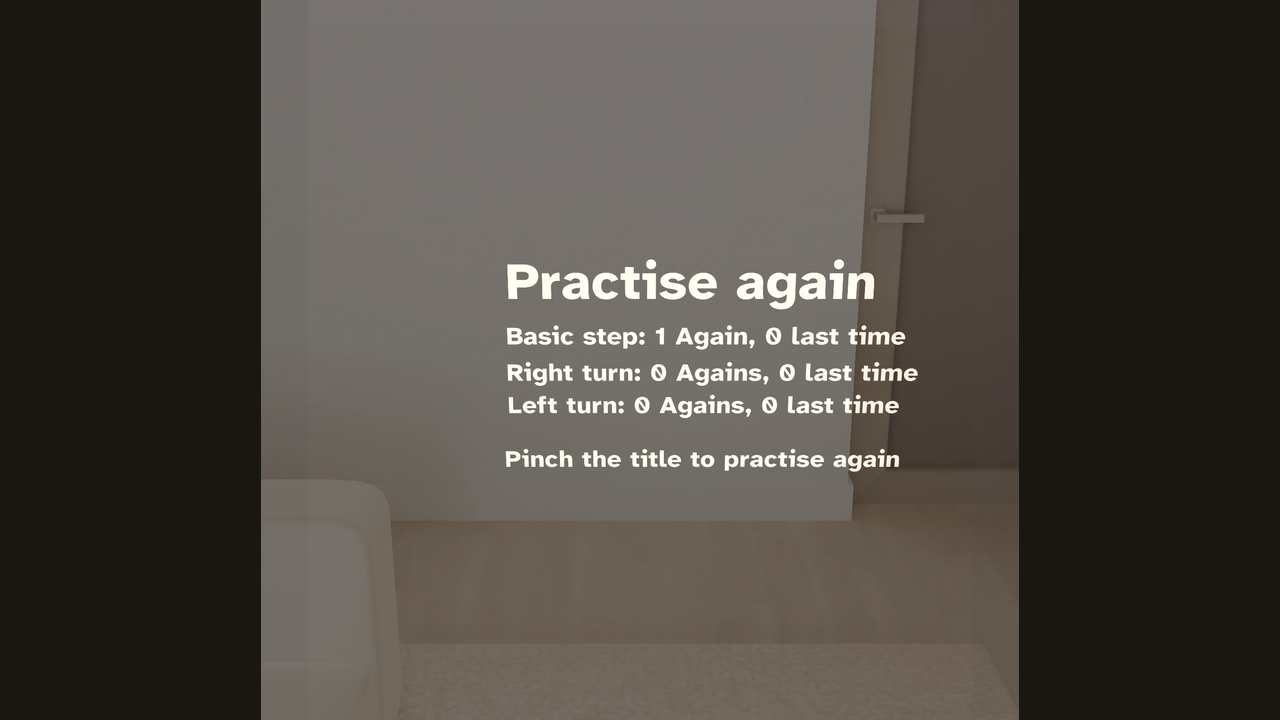
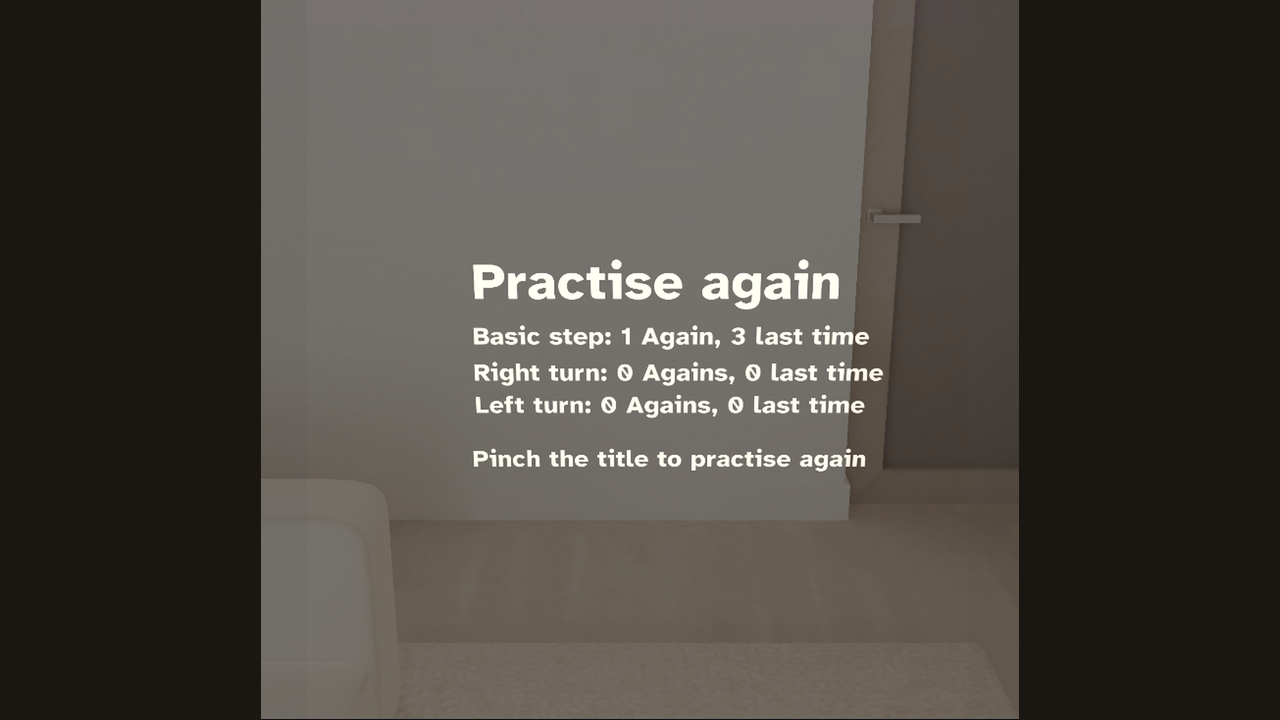
Preview capture scenarios, final summary still, updated counts
Capture scenario films the Lens through its real answer guard. The
summary still now comes from a real second session. Build log and
quoted counts regenerated.

Changed region(s): [[0.3438, 0.3667, 0.7188, 0.5806], [0.375, 0.6111, 0.7188, 0.6722]]

diff --git a/Assets/Tests/FloorcountCaptureScenario.ts b/Assets/Tests/FloorcountCaptureScenario.ts
@@ -16,6 +16,28 @@
  *
  * It asserts only that the frame it is holding is the one that was asked for, so a screenshot
  * taken after it cannot be of the wrong thing.
+ *
+ * The `film-*` shots are for the submission video rather than for a screenshot. They leave the
+ * session RUNNING instead of frozen, because what the camera has to see is the music playing and
+ * the prints lighting, so each one ends by handing a live session back.
+ *
+ * Each is a single run, setup and filmed action together, because LEAF resets the Lens before
+ * every run and the reset re-pins the floor layout to wherever the preview camera is standing.
+ * A clip whose action has to be filmed as it happens is therefore recorded across the whole run
+ * and trimmed afterwards. The ones that press answer through `answerWhenDue`, which waits for
+ * the Lens's own one-answer-per-8-count guard, so what is on camera is the Lens as it ships
+ * rather than the test kit's unguarded pressing.
+ *
+ *  - `film-basic`: a first session at Slow with nothing answered.
+ *  - `film-half`: a Got it up to Medium, then Again twice, which drops the tempo back to Slow
+ *    and leaves counts 1 to 4 on the floor.
+ *  - `film-full`: two Got its up to Full, then three clean ones, the two-count fade, and the
+ *    right turn loading with its arc.
+ *  - `film-session-a`: plays and finishes a whole first session that takes three Agains on the
+ *    basic step and loses count 5, then pinches the summary's title to start the next practice,
+ *    so the second session has read its memory back off persistent storage.
+ *  - `film-session-b-finish`: one Again on the basic step and then out to the summary, so every
+ *    row carries last session's number. Run it only after `film-session-a`.
  */
 
 import { Scenario } from "Leaf.lspkg/Scenarios/scenario/Scenario"
@@ -36,8 +58,10 @@ import {
   pinch,
   restartSession,
   unfreeze,
+  watchPhases,
   waitForStepIndex,
 } from "./FloorcountTestKit"
+import { TEMPO_FULL, TEMPO_MEDIUM, TEMPO_NAMES, TEMPO_SLOW } from "../Scripts/FloorcountState"
 
 /** How far into the count a freeze may land, in beats. The strike decays fast. */
 const MAX_FRAC = 0.06
@@ -52,6 +76,16 @@ export class FloorcountCaptureScenario extends Scenario {
     if (shot === "right-turn-count2") await this.rightTurnCount2(io)
     else if (shot === "last-time-rings") await this.lastTimeRings(io)
     else if (shot === "summary-last-time") await this.summaryLastTime(io)
+    else if (shot === "film-basic") await this.filmBasic()
+    else if (shot === "film-half") {
+      await this.filmHalfSetup(io)
+      await this.filmHalfPress(io)
+    } else if (shot === "film-full") {
+      await this.filmFullSetup(io)
+      await this.filmFullPress(io)
+    }
+    else if (shot === "film-session-a") await this.filmSessionA(io)
+    else if (shot === "film-session-b-finish") await this.filmSessionBFinish(io)
     else throw new Error("unknown shot '" + shot + "'")
   }
 
@@ -121,6 +155,179 @@ export class FloorcountCaptureScenario extends Scenario {
     expect(c.isSummary).toBe(true)
     for (const row of rows) expect(row.indexOf("last time") > 0).toBe(true)
     expect(rows[0]).toBe("Basic step: 1 Again, 0 last time")
+  }
+
+  // ---------------------------------------------------------------- the film shots
+
+  /** A first session at Slow, nothing answered, left running for the camera. */
+  private async filmBasic(): Promise<void> {
+    const m = main()
+    await restartSession(true)
+    await sleep(900)
+    print("[capture] film-basic: " + m.state.step.name + " at " + TEMPO_NAMES[m.state.tempo] + ", count " + m.currentCount)
+    expect(m.state.step.id).toBe("basic")
+    expect(m.state.tempo).toBe(TEMPO_SLOW)
+    expect(m.state.segment).toBe("full")
+  }
+
+  /** One Got it, which takes the music to Medium. The tempo can only drop from above Slow. */
+  private async filmHalfSetup(io: DefaultLeafInteractor): Promise<void> {
+    const m = main()
+    await restartSession(true)
+    await sleep(600)
+    await this.answerWhenDue("GotItButton", io)
+    await sleep(900)
+    print("[capture] film-half-setup: " + TEMPO_NAMES[m.state.tempo] + ", segment " + m.state.segment)
+    expect(m.state.tempo).toBe(TEMPO_MEDIUM)
+  }
+
+  /** Again twice: the tempo drops a level and the floor keeps counts 1 to 4 only. */
+  private async filmHalfPress(io: DefaultLeafInteractor): Promise<void> {
+    const m = main()
+    const p = pad()
+    expect(m.state.tempo).toBe(TEMPO_MEDIUM)
+    await this.answerWhenDue("AgainButton", io)
+    print("[capture] film-half-press: first Again, " + TEMPO_NAMES[m.state.tempo] + ", segment " + m.state.segment)
+    await this.answerWhenDue("AgainButton", io)
+    await sleep(900)
+    print(
+      "[capture] film-half-press: second Again, " + TEMPO_NAMES[m.state.tempo] + ", segment " +
+        m.state.segment + ", counts shown " + [1, 2, 3, 5, 6, 7].filter((c) => m.state.isCountShown(c)).join(""),
+    )
+    expect(m.state.tempo).toBe(TEMPO_SLOW)
+    expect(m.state.segment).toBe("first")
+    expect(p.isFloorVisible).toBe(true)
+    // Hold the session on screen for the rest of the take.
+    await sleep(14000)
+  }
+
+  /** Two Got its, which take the music Slow to Medium to Full. */
+  private async filmFullSetup(io: DefaultLeafInteractor): Promise<void> {
+    const m = main()
+    await restartSession(true)
+    await sleep(600)
+    await this.answerWhenDue("GotItButton", io)
+    await this.answerWhenDue("GotItButton", io)
+    await sleep(900)
+    print("[capture] film-full-setup: " + TEMPO_NAMES[m.state.tempo] + ", " + m.state.fullGotItStreak + " clean at Full")
+    expect(m.state.tempo).toBe(TEMPO_FULL)
+    expect(m.state.stepIndex).toBe(0)
+  }
+
+  /** Three clean 8-counts at Full: the prints fade over two counts and the right turn loads. */
+  private async filmFullPress(io: DefaultLeafInteractor): Promise<void> {
+    const m = main()
+    const p = pad()
+    expect(m.state.tempo).toBe(TEMPO_FULL)
+    const watch = watchPhases()
+    for (let i = 0; i < 3; i++) await this.answerWhenDue("GotItButton", io)
+    expect(await waitForStepIndex(1, 15000)).toBe(true)
+    print("[capture] film-full-press: phases " + watch.stop().join(" > ") + ", step " + m.state.step.id)
+    expect(m.state.step.id).toBe("rightTurn")
+
+    // The arc is a per-frame flag, so which counts carry it has to be sampled, the way C4 does.
+    const arcOn: boolean[] = [false, false, false, false, false, false, false, false, false]
+    const deadline = getTime() + 9
+    while (getTime() < deadline) {
+      const n = m.currentCount
+      if (n >= 1 && n <= 8 && p.arcVisible) arcOn[n] = true
+      await sleep(30)
+    }
+    const onCounts: number[] = []
+    for (let i = 1; i <= 8; i++) if (arcOn[i]) onCounts.push(i)
+    print("[capture] film-full-press: turn arc on counts " + onCounts.join(", "))
+    expect(onCounts.length > 0).toBe(true)
+    for (const n of onCounts) expect(n === 2 || n === 3).toBe(true)
+    // Hold the right turn on screen for the rest of the take.
+    await sleep(6000)
+  }
+
+  /**
+   * A whole first session that takes three Agains on the basic step and loses count 5, then the
+   * summary's own title button to start the next practice. What the second session knows it has
+   * read back out of persistent storage, the same way it would the next time the Lens is opened.
+   */
+  private async filmSessionA(io: DefaultLeafInteractor): Promise<void> {
+    const m = main()
+    const p = pad()
+    const c = card()
+    // The guard is off for the drive: nothing in this part is filmed, and with it on the three
+    // steps would take an 8-count per answer. The filmed shots put it back on.
+    await restartSession(false)
+    await sleep(900)
+
+    // Lose count 5 first, while the whole step is still on the floor.
+    expect(await freezeOnCount(5)).toBe(true)
+    await pinch("Footprint_C5", io)
+    await sleep(250)
+    expect(m.state.lostMarks[0].join(",")).toBe("5")
+    unfreeze()
+    await sleep(500)
+
+    for (let i = 0; i < 3; i++) {
+      await pinch("AgainButton", io)
+      await sleep(250)
+    }
+    expect(m.state.againCounts[0]).toBe(3)
+
+    expect(await finishSession(io)).toBe(true)
+    await sleep(700)
+    expect(c.isSummary).toBe(true)
+    print("[capture] film-session-a: first session " + [c.lineText(0), c.lineText(1), c.lineText(2)].join(" | "))
+
+    // Pinch the summary's title, which is how the Lens itself starts the next practice.
+    await pinch("TitleButton", io)
+    await sleep(1500)
+    m.answerGuard = true
+    print(
+      "[capture] film-session-a: second session, previous lost " + m.state.previousLostCounts(0).join(" and ") +
+        ", previous Agains " + m.state.previousAgains(0) + ", focus '" + c.lineText(2) + "', ring on 5 " +
+        p.ringBrightness(5).toFixed(2),
+    )
+    expect(m.state.phase).toBe("learning")
+    expect(m.state.stepIndex).toBe(0)
+    expect(m.state.previousAgains(0)).toBe(3)
+    expect(p.isPreviousMarkShown(5)).toBe(true)
+    expect(p.isPreviousMarkShown(1)).toBe(false)
+    expect(c.lineText(2)).toBe("Last time: lost it on 5")
+  }
+
+  /** One Again on the basic step, then out to the summary, which now reads against last time. */
+  private async filmSessionBFinish(io: DefaultLeafInteractor): Promise<void> {
+    const m = main()
+    const c = card()
+    expect(m.state.previousAgains(0)).toBe(3)
+    m.answerGuard = false
+    await pinch("AgainButton", io)
+    await sleep(300)
+    expect(m.state.againCounts[0]).toBe(1)
+
+    expect(await finishSession(io)).toBe(true)
+    await sleep(900)
+    const rows = [c.lineText(0), c.lineText(1), c.lineText(2)]
+    print("[capture] film-session-b-finish: " + rows.join(" | "))
+    expect(c.isSummary).toBe(true)
+    for (const row of rows) expect(row.indexOf("last time") > 0).toBe(true)
+    expect(rows[0]).toBe("Basic step: 1 Again, 3 last time")
+    // The summary is a still frame; hold it while the camera is on it.
+    await sleep(12000)
+  }
+
+  /**
+   * Answer the way a dancer does with the Lens as it ships: wait until the one-answer-per-8-count
+   * guard would take it, then pinch. Without the wait the guard drops the press and the clip
+   * shows a button being pinched and nothing happening.
+   */
+  private async answerWhenDue(
+    name: string,
+    io: DefaultLeafInteractor,
+    timeoutMs: number = 20000,
+  ): Promise<void> {
+    const m = main()
+    const deadline = getTime() + timeoutMs / 1000
+    while (getTime() < deadline && !m.canAnswer) await sleep(40)
+    expect(m.canAnswer).toBe(true)
+    await pinch(name, io)
   }
 
   // ---------------------------------------------------------------- shared setup

diff --git a/.design/brand/gallery-how-it-was-made.html b/.design/brand/gallery-how-it-was-made.html
@@ -35,9 +35,9 @@ body { width: 1500px; height: 1000px; overflow: hidden; background: #1A1612; col
       <p class="how">The Devpost Learn skill pack's plan-lens interview wrote the brief.</p></div>
   </div>
   <div class="row">
-    <div class="n" id="mcp">603</div>
+    <div class="n" id="mcp">677</div>
     <div><p class="what">Lens Studio MCP calls</p>
-      <p class="how">Snap's CLAD built and tested the Lens across <span id="sessions">10</span> sessions.</p></div>
+      <p class="how">Snap's CLAD built and tested the Lens across <span id="sessions">13</span> sessions.</p></div>
   </div>
   <div class="row">
     <div class="n" id="leaf">17</div>

diff --git a/devpost/PROMPTS.md b/devpost/PROMPTS.md
@@ -230,3 +230,55 @@ Do, in this order:
 
 If usage or time runs short, the order of priority is: the sweep, then step 5, then step 6, then the captures. Save before stopping, and write down what is missing in the report section. If Lens Studio stops answering, a modal dialog may be open: say so and stop, do not wait on it.
 ```
+
+## 6 November: preview capture for the video
+
+```text
+Capture preview footage of the Floorcount Lens for the submission video. Do not change how the Lens looks or behaves.
+
+Read first: DEMO_SCRIPT.md (the shots), devpost/design-pass-report.md (sections "Things worth knowing", "Polish, 3 November 2026" and "Session memory and coverage, 6 November 2026"), broll/SHOTLIST.md.
+
+Rules for this project: packages are pinned (SIK 2.0, UI Kit 2.0, LEAF 2.0.2); install nothing; never call QueryRuntimeSceneTool or PreviewInteractTool (both silently install packages that break the build). Do not edit Assets/Scripts/. Assets/Tests/FloorcountCaptureScenario.ts already exists and may be extended. Do not edit the brief, the notes, PHASE0.md, README.md or the submission. Do not run git. Do not start a shell command with `cd`: the working directory is already the project. Delete any "* 2.*" OneDrive duplicates in Assets/ before compiling. Save the project through the Editor API if you add a scenario.
+
+Goal: real screen recordings of the preview, saved in broll/ (git-ignored), named preview-NN-what.mp4:
+1. preview-01-basic-slow.mp4: the pad from the start position, about two 8-counts of the basic at Slow, prints lighting on their counts, the strip and numeral in frame.
+2. preview-02-again-half.mp4: Again twice (use the capture scenario to press), the tempo drops, only counts 1 to 4 lit.
+3. preview-03-next-step.mp4: Got it three times at Full, the two-count fade, the right turn loads with its arc on counts 2 and 3.
+4. preview-04-step-card.mp4: the card during the answer window, from where the dancer stands.
+5. preview-05-right-turn-clean.mp4: one full right-turn 8-count, nothing else on screen but the Lens in the room, for the final shot.
+6. preview-06-second-session.mp4: a real second session. First finish a session in the preview with three Agains on the basic and the count-5 print pinched (drive it with the capture scenario, which may be extended for this; do not write the saved data by hand). The second session then has one Again on the basic, so the summary shows a real improvement. Then start again with the saved session kept and film the pad with the faint ring on the count-5 print, then the card reading "Last time: lost it on 5".
+7. preview-07-summary-last-time.mp4: the end of that second session, the summary card with rows ending "last time". Hold 5 seconds. Retake the still devpost/shots/summary-last-time.png from this same held frame (1280 x 720 with tmp/compose_shot.py, as before): its basic row should read "Basic step: 1 Again, 3 last time".
+8. preview-08-leaf-run.mp4: the whole Lens Studio window with the LEAF panel visible while three or four scenarios run and report PASS. This is the one clip where the editor UI should be in frame.
+9. preview-09-lens-studio-wide.mp4: the whole Lens Studio window with the preview running the basic step, 8 seconds, for the line "all of this is the Lens Studio preview".
+When the clips are done, clear the saved session (FloorcountMain.clearSaved) so the project is left as a first session, and save.
+
+Method: write a capture-only LEAF scenario that drives each path by pressing the same SIK interactables the other scenarios press, with holds long enough to film. Record with ffmpeg (installed), capturing only the Lens Studio window or the preview panel region with gdigrab (title= or a fixed region of that window), never the whole desktop, the webcam or a microphone. If another window covers Lens Studio, bring Lens Studio forward; if it still cannot be captured, stop and report. Crop to the preview. 30 fps, H.264, yuv420p. Use the camera position from the Polish report: the start position over clear floor, Lens reset there, then aim. Keep the Lens Studio UI, the LEAF result banner and any cursor out of the crop if you can.
+
+Audio: there is no loopback device listed. If you can capture system audio with a method that needs no install, do so. Otherwise record silent and write down, per clip, the frame where the music loop starts, so the WAV in Assets/GeneratedSFX/ can be laid in during the edit.
+
+Look at one extracted frame from each clip before moving on. If a capture method does not work after two honest attempts, stop and report what failed; do not fake a clip from stills.
+
+Finish by writing broll/PREVIEW-CLIPS.md: each file, its duration, what it shows, the camera position, audio status, and anything wrong with it. Plain language, no em-dashes.
+
+If Lens Studio stops answering, a modal dialog may be open: say so and stop, do not wait on it.
+
+Two things learned today: LEAF's panel prints "Loaded 19 scenario(s) from preview" when it is ready, and a run dispatched before that line is silently lost. If the preview goes silent, check PreviewPanelTool getConfig: "Preview is Paused" needs a refresh, resume does not revive it. A Quest 3S and a phone may be attached over adb, so pin LEAF to the preview first. Leave the project as a first session (clear the saved session) and save.
+```
+
+## 6 November: finishing the capture
+
+```text
+Finish a capture job an earlier session started. Keep this short: you have about 50 tool calls. Do not change how the Lens looks or behaves.
+
+Project root: this folder (ARSpec.esproj). Lens Studio is open on it; the lens-studio MCP server is connected. Clips preview-01 to preview-07 are already in broll/ and are good: do not redo them.
+
+Rules: install nothing; never call QueryRuntimeSceneTool or PreviewInteractTool. Do not run git. Do not start a shell command with `cd`. Do not edit anything under Assets/Scripts/, README.md, PHASE0.md or devpost/submission.md. Do not move or click the mouse, and do not use tmp/mouse.ps1. LEAF's panel prints "Loaded 19 scenario(s) from preview" when it is ready, and a run dispatched before that line is lost. Pin LEAF to the preview, not a device. If the preview goes silent, check PreviewPanelTool getConfig: "Preview is Paused" needs a refresh. Do not record the webcam, a microphone or the whole desktop: capture the Lens Studio window only, with ffmpeg gdigrab using title= or a fixed region of that window.
+
+Do these, in order:
+1. broll/preview-08-leaf-run.mp4: start a window recording in the background, then run floorcount-c1-start, floorcount-c3-again and floorcount-c7-step-card with run_leaf_scenario. The whole Lens Studio window in frame, with the preview running. If the LEAF panel is not visible and cannot be shown with the MCP tools (open_leaf_panel), film it anyway and say so. 25 to 40 seconds. H.264, yuv420p, 30 fps.
+2. broll/preview-09-lens-studio-wide.mp4: the whole Lens Studio window with the preview running the basic step, 8 seconds, same settings.
+3. Look at one extracted frame from each. Retake once if the window was covered. If it is still covered, stop and report; nothing else depends on these two.
+4. Clear the saved session so the project is left as a first session: run floorcount-c9-session-memory, which ends by clearing it, on a fresh preview. Its result may have to be read from the log.
+5. Save through the Editor API.
+6. Write broll/PREVIEW-CLIPS.md: each file preview-01 to preview-09, its duration (use ffprobe), what it shows, audio status (all silent, the music is laid in during the edit), and anything wrong with it. Note for clips 01 to 07 that they were driven by the floorcount-capture scenario through the Lens's real answer guard. Plain language, no em-dashes, no local user paths.
+```

diff --git a/devpost/BUILD_LOG.md b/devpost/BUILD_LOG.md
@@ -8,7 +8,7 @@ The first session, on 1 November, ran inside the planning chat and its transcrip
 |---|---|---|---|---|---|
 | 1 Nov | First build | Scripts, generated music and sound. Scene lost, not counted. | n/a | not kept | not kept |
 | 2 Nov, 14:19 | Build | Rebuilt the scene from the brief on the scripts and audio of 1 November, wrote six LEAF scenarios, rewrote the beat clock. | 48 | 224 | 112 |
-| 2 Nov, 15:09 | Design pass (cut off) | Brought the fonts and textures in, then stopped at a usage limit before touching the scene. | 7 | 43 | 3 |
+| 2 Nov, 15:10 | Design pass (cut off) | Brought the fonts and textures in, then stopped at a usage limit before touching the scene. | 6 | 43 | 3 |
 | 2 Nov, 15:19 | Design pass | Applied the design notes: sole prints, the clave strip, one ink, the brightness curve, the card without a panel. | 52 | 266 | 94 |
 | 2 Nov, 16:13 | Step card fix (cut off) | Started the card fix, stopped at a usage limit with one script half-written and nothing saved. | 14 | 55 | 10 |
 | 3 Nov, 07:42 | Step card fix | One left edge, fitted capsules, the paused line in words, a seventh scenario. | 39 | 209 | 97 |
@@ -17,31 +17,34 @@ The first session, on 1 November, ran inside the planning chat and its transcrip
 | 6 Nov, 09:53 | Fresh-clone test (stopped) | Cloned the repository, checked it for Git LFS pointers and opened it in Lens Studio. The editor was waiting on a plugin trust prompt the session could not see, so I stopped it and answered the prompt by hand. See clean-clone-test.md. | 33 | 45 | 6 |
 | 6 Nov, 10:30 | Session memory and coverage (cut off) | Verified the session memory and the arc fix in the Lens and wrote nine new scenarios, all passing. Stopped at a usage limit while chasing a race in C4. | 43 | 174 | 73 |
 | 6 Nov, 13:53 | Coverage, finished | Ran the whole sweep after the C4 fix, took the captures, checked a saved session across a real preview reset. | 38 | 190 | 79 |
-| | **Counted total** | 10 sessions | 344 | **1519** | **603** |
+| 6 Nov, 14:34 | Preview capture (stopped) | Stopped by hand a few minutes in, before any clip was recorded. | 11 | 73 | 9 |
+| 6 Nov, 16:30 | Preview capture (cut off) | Recorded the seven clips of the Lens and retook the summary still. Stopped at its turn limit. | 47 | 227 | 51 |
+| 6 Nov, 17:18 | Capture, finished | Recorded the two clips of Lens Studio itself, cleared the saved session, wrote the clip notes. | 8 | 52 | 14 |
+| | **Counted total** | 13 sessions | 409 | **1871** | **677** |
 
 ## What the Lens Studio MCP was used for
 
 | MCP tool | Calls |
 |---|---|
-| `run_leaf_scenario` | 163 |
-| `MovePreviewCamera` | 85 |
-| `PreviewPanelTool` | 84 |
-| `ExecuteEditorCode` | 58 |
-| `RecompileTypeScriptTool` | 52 |
-| `RunAndCollectLogsTool` | 51 |
+| `run_leaf_scenario` | 179 |
+| `MovePreviewCamera` | 105 |
+| `PreviewPanelTool` | 91 |
+| `ExecuteEditorCode` | 70 |
+| `RecompileTypeScriptTool` | 54 |
+| `RunAndCollectLogsTool` | 53 |
 | `asset-graphql` | 38 |
+| `list_leaf_scenarios` | 19 |
 | `scene-graphql` | 16 |
-| `list_leaf_scenarios` | 16 |
-| `CapturePanelScreenshotTool` | 11 |
-| `open_leaf_panel` | 7 |
+| `CapturePanelScreenshotTool` | 15 |
+| `open_leaf_panel` | 11 |
 | `VirtualScene` | 6 |
+| `ListAllPanels` | 5 |
 | `ListInstalledPackagesTool` | 4 |
-| `ListAllPanels` | 3 |
+| `set_leaf_execution_target` | 3 |
 | `SearchLensStudioAssetLibrary` | 2 |
 | `QueryRuntimeSceneTool` | 2 |
 | `InjectPreviewGesture` | 2 |
 | `InstallLensStudioPackage` | 1 |
 | `PreviewInteractTool` | 1 |
-| `set_leaf_execution_target` | 1 |
 
-Three sessions were cut off by a usage limit partway through, and one was stopped by hand. All four are listed and counted, because a count that leaves out the runs that went wrong is not a count. Each session after a cut-off began by reading what the last one had written.
+Four sessions were cut off partway through by a usage or turn limit, and two were stopped by hand. All six are listed and counted, because a count that leaves out the runs that went wrong is not a count. Each session after a cut-off began by reading what the last one had written.

diff --git a/README.md b/README.md
@@ -62,7 +62,7 @@ It changes with how I'm doing. Two Agains slow the music and cut the step in hal
 ## How it was planned and built
 
 1. **Planned with the Devpost skill pack.** The `plan-lens` interview wrote [devpost/design-brief.md](devpost/design-brief.md): one spatial moment, where each thing lives, how the hands act on it, and six done criteria that can be checked in the preview.
-2. **Built by CLAD through the Lens Studio MCP.** Snap's `specs-experience-builder` agent built the scene in Lens Studio 5.23.2 from the brief. Spectacles Interaction Kit handles every pinch, `build-music` and `build-sfx` generated the audio, the sound plays spatially from the pad, and the Editor API saves the project at each milestone. Ten CLAD sessions made 603 Lens Studio MCP calls: [devpost/BUILD_LOG.md](devpost/BUILD_LOG.md) counts them from the sessions' own transcripts, and [devpost/PROMPTS.md](devpost/PROMPTS.md) holds every prompt, word for word. The account of the build is in [devpost/build-report.md](devpost/build-report.md), including the beat clock CLAD had to rewrite: the preview reports a stale audio position for about a second after play, and the first version read that as the loop wrapping and ran the count at up to 620 BPM against a 140 BPM track.
+2. **Built by CLAD through the Lens Studio MCP.** Snap's `specs-experience-builder` agent built the scene in Lens Studio 5.23.2 from the brief. Spectacles Interaction Kit handles every pinch, `build-music` and `build-sfx` generated the audio, the sound plays spatially from the pad, and the Editor API saves the project at each milestone. Thirteen CLAD sessions made 677 Lens Studio MCP calls: [devpost/BUILD_LOG.md](devpost/BUILD_LOG.md) counts them from the sessions' own transcripts, and [devpost/PROMPTS.md](devpost/PROMPTS.md) holds every prompt, word for word. The account of the build is in [devpost/build-report.md](devpost/build-report.md), including the beat clock CLAD had to rewrite: the preview reports a stale audio position for about a second after play, and the first version read that as the loop wrapping and ran the count at up to 620 BPM against a 140 BPM track.
 3. **Tested twice over.** LEAF scenarios run the Lens in the preview, one per done criterion and then more for what the criteria leave out. Unit tests run the session rules and the footwork data with no Lens Studio at all, on every push. See [Tests](#tests).
 4. **Designed as its own thing.** The first build worked and looked like a default: cartoon feet in blue and orange, a frosted panel, stock icons. The look it has now comes from the clave, salsa's timekeeper. The pad is the clave's grid, each print a struck note, and the light decays over one beat like hardwood. On this display black is transparent and alpha is brightness, so there is one ivory ink at three brightnesses and one teal reserved for the 1. Left feet are solid and right feet are outlined, because a clave pair has two roles: one is held and the other strikes it. The laws are in [.design/brand/CHARTER.md](.design/brand/CHARTER.md), the sheet is [.design/brand/index.html](.design/brand/index.html), and what CLAD changed to apply them is in [devpost/design-pass-report.md](devpost/design-pass-report.md).
 

diff --git a/devpost/submission.md b/devpost/submission.md
@@ -59,7 +59,7 @@ It changes with how I'm doing. Two Agains slow the music and cut the step in hal
 
 I planned it with the Devpost skill pack. `plan-lens` wrote `devpost/design-brief.md` with one spatial moment, where each thing lives and six done criteria I could check in the preview.
 
-Snap's CLAD built it from that brief in Lens Studio 5.23.2 through the Lens Studio MCP: 10 sessions and 603 MCP calls, counted from the sessions' own transcripts in `devpost/BUILD_LOG.md`, with every prompt in `devpost/PROMPTS.md`. Spectacles Interaction Kit handles every pinch, `build-music` and `build-sfx` made the audio, and the sound plays spatially from the pad.
+Snap's CLAD built it from that brief in Lens Studio 5.23.2 through the Lens Studio MCP: 13 sessions and 677 MCP calls, counted from the sessions' own transcripts in `devpost/BUILD_LOG.md`, with every prompt in `devpost/PROMPTS.md`. Spectacles Interaction Kit handles every pinch, `build-music` and `build-sfx` made the audio, and the sound plays spatially from the pad.
 
 LEAF runs one scenario per done criterion, then eleven more for what the criteria leave out, like the session memory and the rule that only the 1 is ever teal: 17 of 17 pass in the preview. The beat test sampled the Lens 154 times over 8 seconds and found no wrong print, nothing lit on a hold, and 140.5 BPM against the 140 BPM loop.
 
